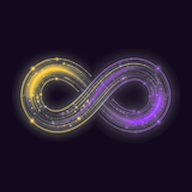
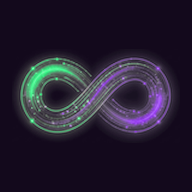
코어싱크(주황→파랑)랑 색이 너무 비슷해 헷갈린다는 지적으로 로고를 초록→보라 그라데이션으로 다시 색 치환(모양은 그대로, 색만 교체). 서류 목록의 기수/연도 버튼을 한 줄에 여러 개 끼어있던 거 한 줄에 하나씩 세로로 나열되게 변경
Claude-Session: https://claude.ai/code/session_01KvdDNG39ZNErk4kcAfZdEz

diff --git a/corebox/static/css/style.css b/corebox/static/css/style.css
@@ -145,11 +145,11 @@ body { padding-bottom: 40px; }
 .doctype-header:hover { background: var(--surface-2); }
 .doctype-count { color: var(--text-muted); font-weight: 400; font-size: 12px; }
 .doctype-body {
-  flex-wrap: wrap;
-  gap: 8px;
+  flex-direction: column;
+  gap: 6px;
   padding: 8px 2px 4px;
 }
-.period-btn-wrap { display: flex; align-items: center; gap: 2px; }
+.period-btn-wrap { display: flex; align-items: center; gap: 6px; width: 100%; }
 .period-btn {
   display: inline-block;
   padding: 8px 14px;
@@ -160,6 +160,8 @@ body { padding-bottom: 40px; }
   font-size: 13px;
   font-weight: 600;
   text-decoration: none;
+  min-width: 90px;
+  text-align: center;
 }
 .period-btn:hover { background: var(--surface-3); }
 .issue-date-tag { color: var(--text-muted); font-size: 11px; margin: 0 2px; }
